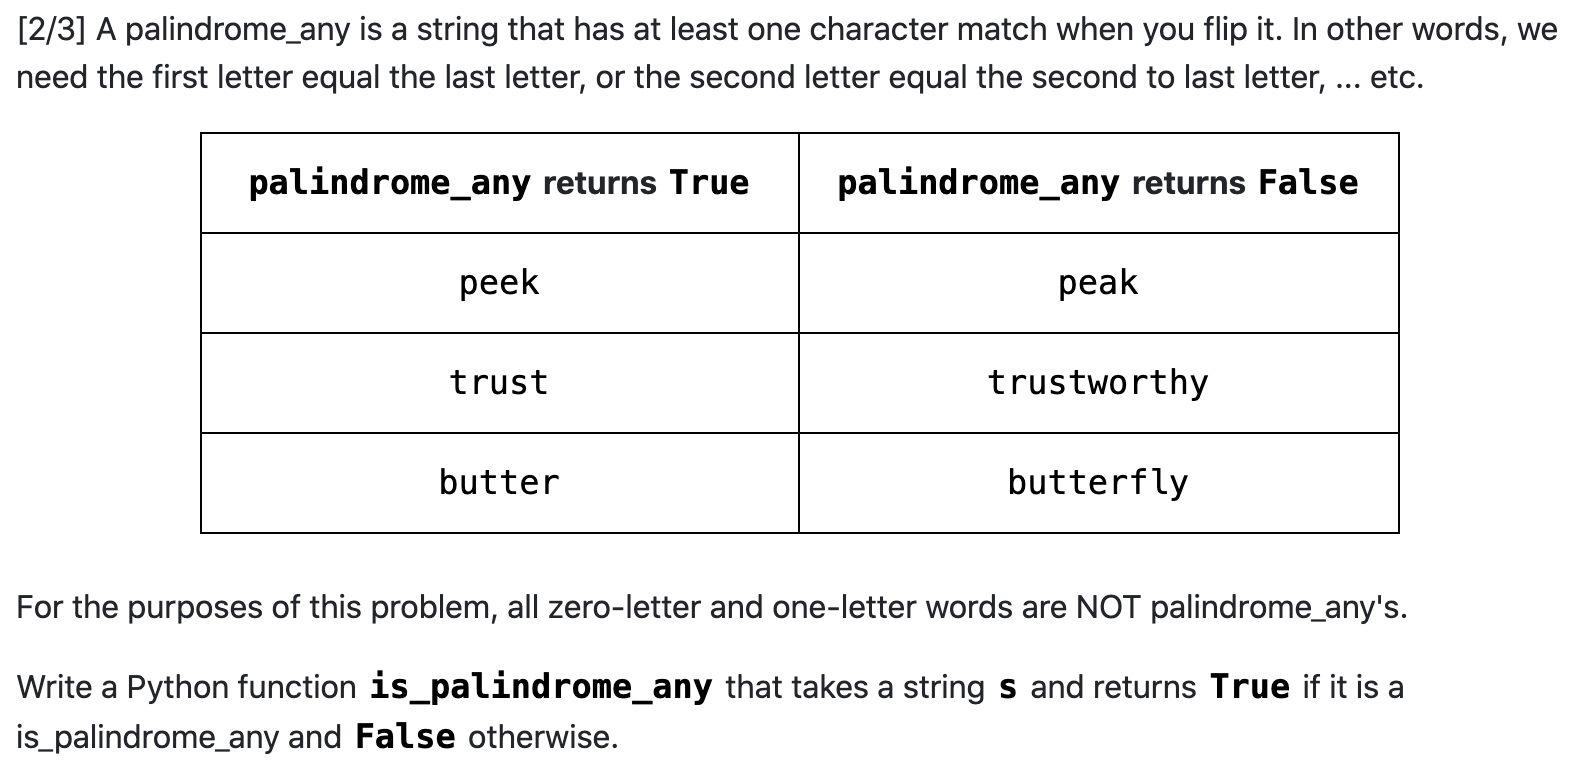
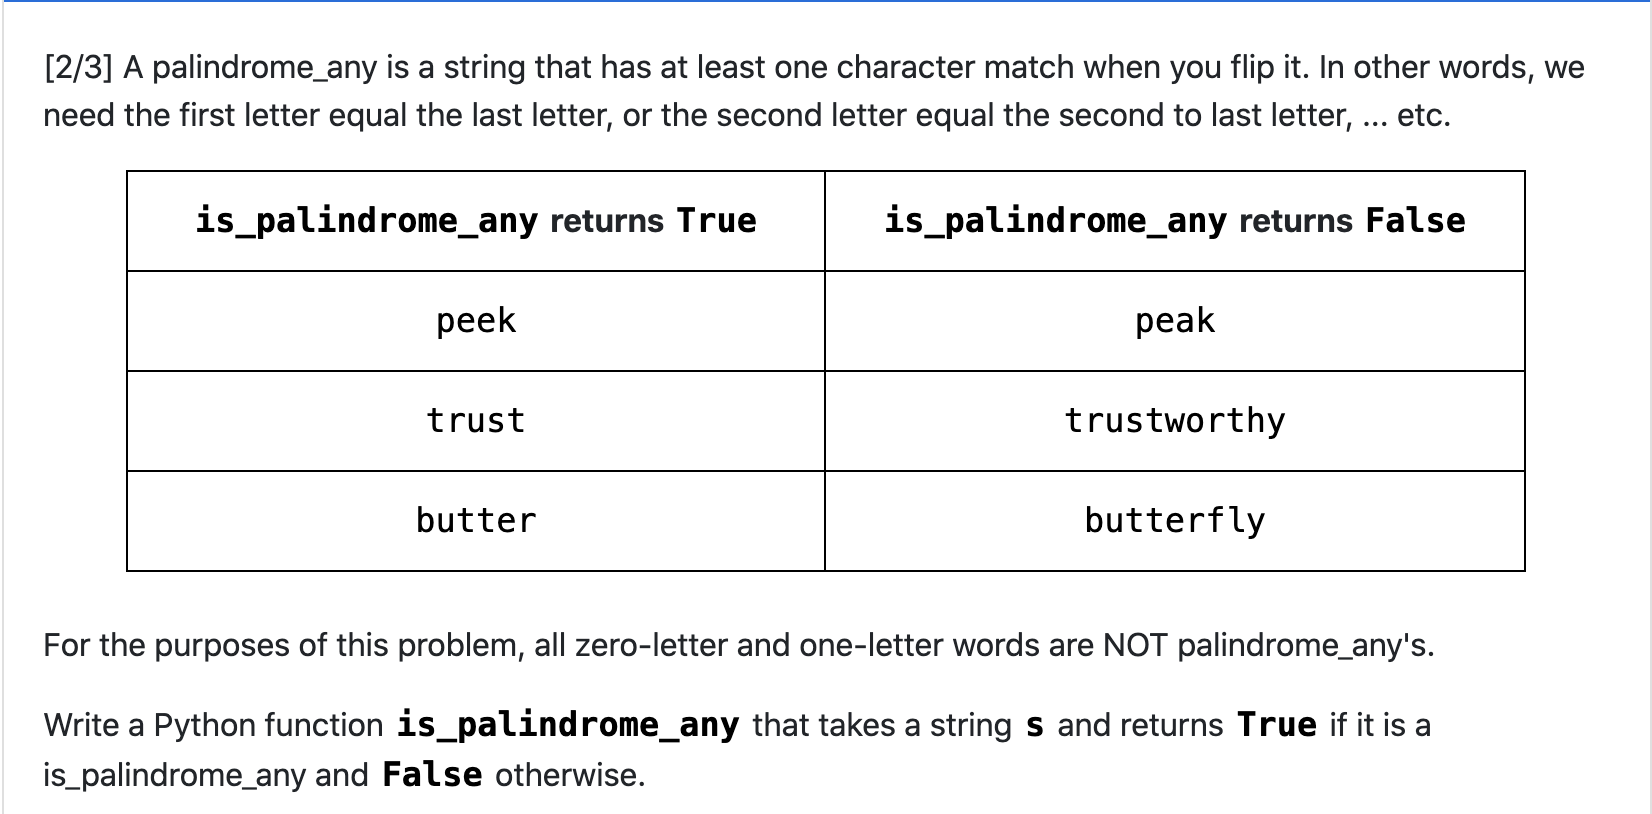
changed palindromes

diff --git a/questions/python/palindromeFamily/question.html b/questions/python/palindromeFamily/question.html
@@ -32,10 +32,10 @@ table.palindrome {
       [{{params.variant_num}}/3]
       {{params.text}}
       <br>
-      <table class="palindrome" style="width:600px">
+      <table class="palindrome" style="width:700px">
         <tr>
-          <th><code>palindrome_{{params.variant}}</code> returns <code>True</code></th>
-          <th><code>palindrome_{{params.variant}}</code> returns <code>False</code></th>
+          <th><code>{{params.function}}</code> returns <code>True</code></th>
+          <th><code>{{params.function}}</code> returns <code>False</code></th>
         </tr>
         <tr>
           <td><code>{{params.example_one}}</code></td>
